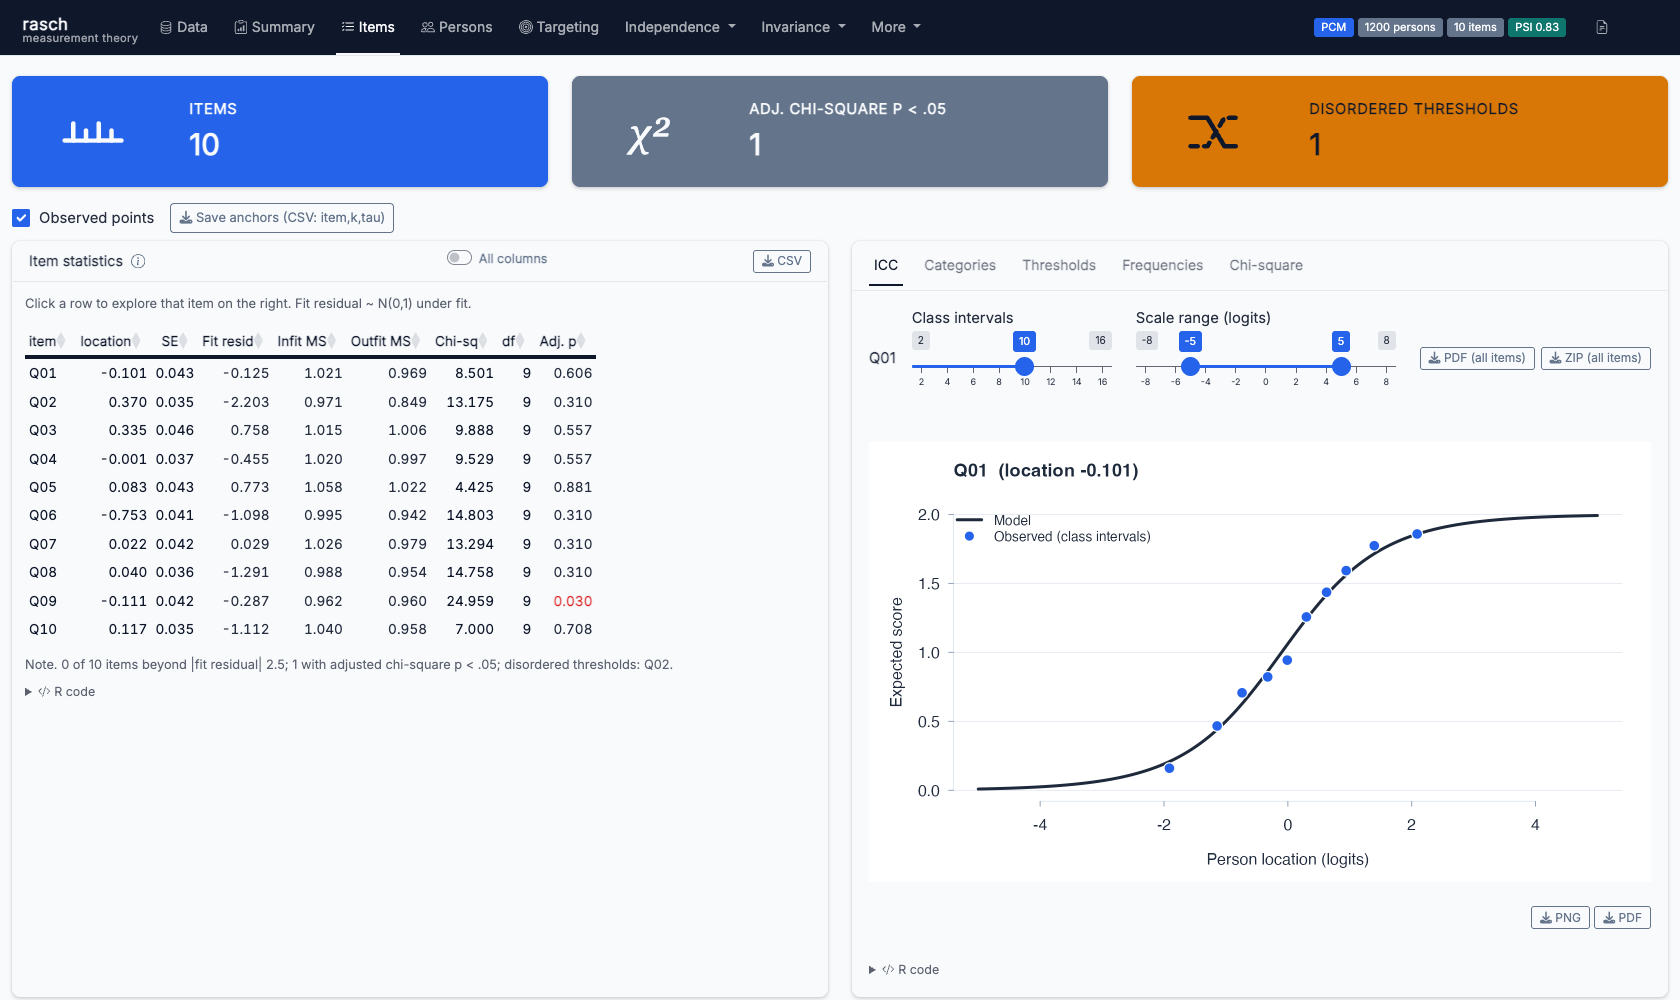
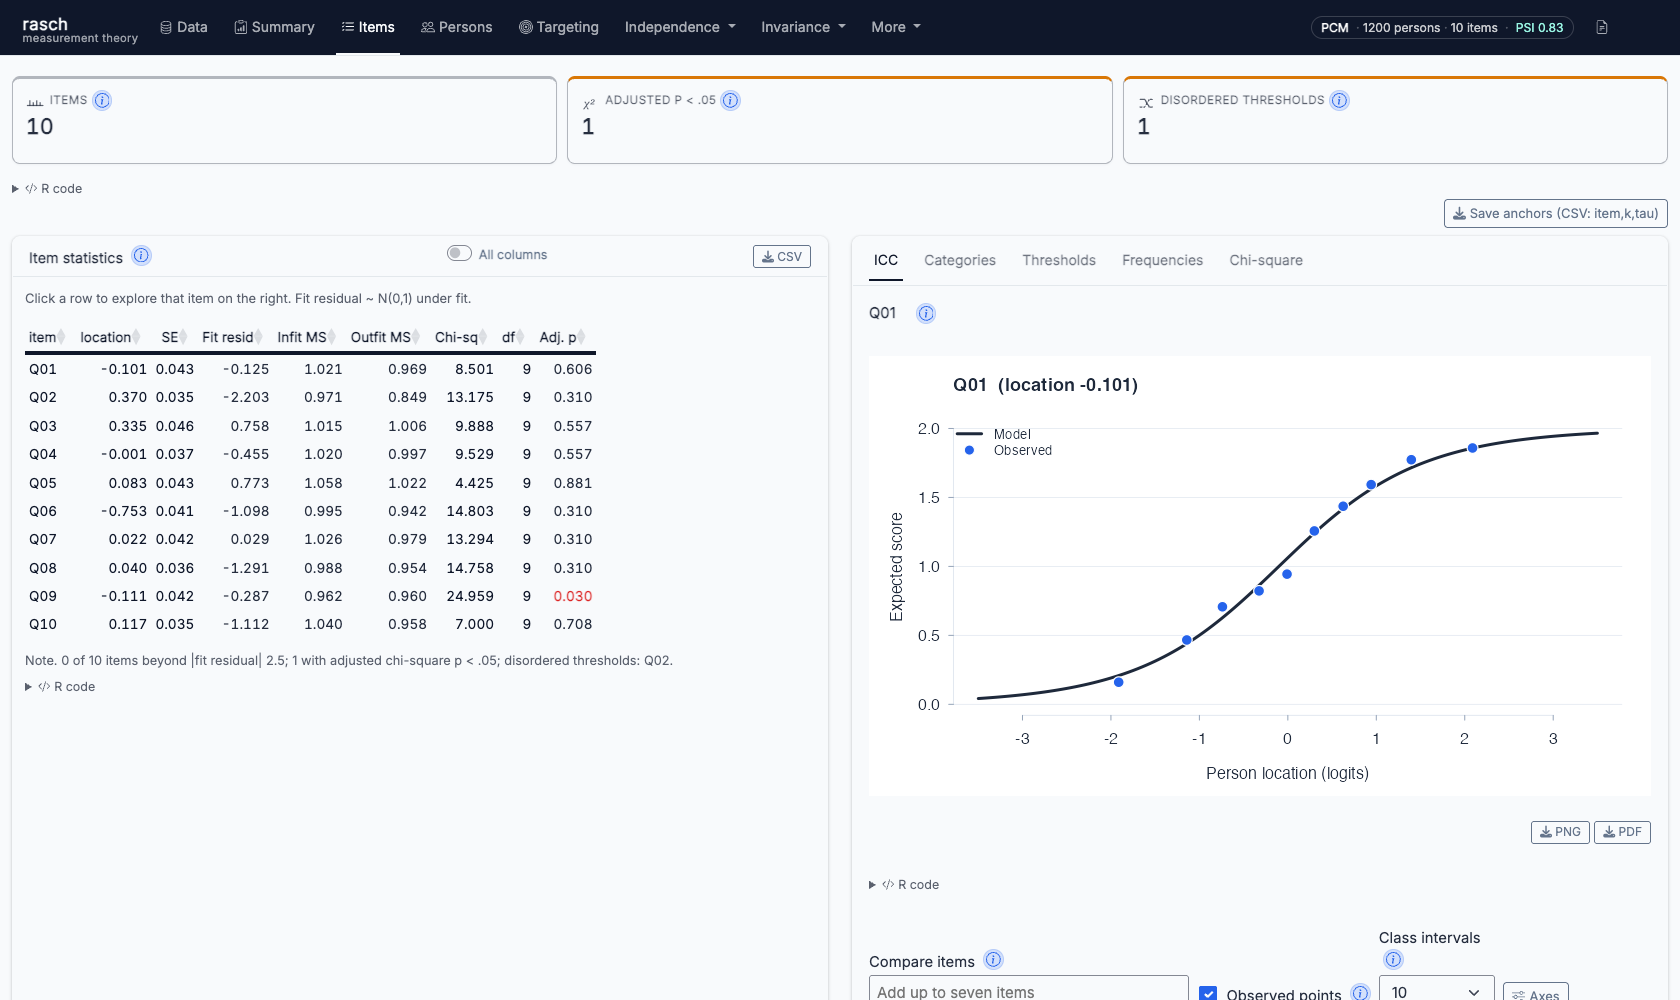
README: current app screenshot, GitHub-rendering math, package-first model description
Regenerate man/figures/app-items.png from the 1.12.0 app (same demo fit
and framing; explainers and current styling now visible). Switch inline
math from \( \) to $ $ so GitHub renders the Greek (pkgdown's mathjax
handles both). Present the partial credit model through what rasch()
estimates rather than as background, folding the estimation citations
into the text, and trim the reference list to the works the text cites.

diff --git a/README.md b/README.md
@@ -11,19 +11,24 @@ models for item responses, ratings, linked frames of reference, and paired
 comparisons, with a common set of functions for examining fit, invariance,
 targeting, dimensionality, and local dependence.
 
-For an item with ordered scores \(x=0,\ldots,m_i\), the partial credit model
-can be written as
+For an item with ordered scores $x=0,\ldots,m_i$, `rasch()` estimates the
+partial credit model
 
 $$
 \log\frac{P(X_{ni}=x)}{P(X_{ni}=x-1)}=\theta_n-\delta_{ix},
 $$
 
-where \(\theta_n\) is the location of person \(n\) and \(\delta_{ix}\) is
-the threshold between categories \(x-1\) and \(x\). Dichotomous items have
-one threshold. The rating scale model imposes a common threshold structure
-across items. The total score is sufficient for \(\theta_n\), allowing item
-parameters to be estimated without assuming a population distribution for
-the person locations.
+where $\theta_n$ is the location of person $n$ and $\delta_{ix}$ is the
+threshold between categories $x-1$ and $x$; dichotomous items have one
+threshold, and the rating scale model holds a common threshold structure
+across the items. The total score is sufficient for $\theta_n$, so
+`rasch()` estimates the item parameters by pairwise conditioning
+(Zwinderman, 1995), without assuming a population distribution for the
+person locations, and returns Warm (1989) weighted likelihood person
+measures on the same scale. The other models carry these comparisons to
+raters and other facets of a measurement design, to frames of reference
+measured in different units, and to comparative judgement of paired
+comparisons.
 
 The package treats fit to the model as an empirical question. Its diagnostics
 examine whether comparisons remain invariant across persons, items, groups,
@@ -39,10 +44,9 @@ occasions, raters, and other parts of the measurement design.
 | `btl()` | Comparative judgement models for dichotomous and polytomous paired comparisons |
 | `btl_efrm()` | Extended frame of reference model for paired comparisons |
 
-The item-response models use pairwise conditional maximum likelihood.
-Person locations are estimated by Warm's weighted likelihood method. Anchored
-estimation is available for equating, and incomplete linked designs can be
-fitted when their observed response structure identifies a common scale.
+Anchored estimation is available for equating, and incomplete linked
+designs can be fitted when their observed response structure identifies a
+common scale.
 
 The suite follows Rasch (1960) and Andrich and Marais (2019); the frame of
 reference models follow Humphry's (2005) thesis, where the model is
@@ -119,15 +123,8 @@ simulation.
 Andrich, D. (1978). Relationships between the Thurstone and Rasch approaches
 to item scaling. *Applied Psychological Measurement*, 2(3), 451--462.
 
-Andrich, D., and Luo, G. (2003). Conditional pairwise estimation in the Rasch
-model for ordered response categories using principal components. *Journal
-of Applied Measurement*, 4(3), 205--221.
-
 Andrich, D., and Marais, I. (2019). *A Course in Rasch Measurement Theory:
 Measuring in the Educational, Social and Health Sciences*. Springer.
-
-Bradley, R. A., and Terry, M. E. (1952). Rank analysis of incomplete block
-designs: I. The method of paired comparisons. *Biometrika*, 39, 324--345.
 
 Humphry, S. M. (2005). *Maintaining a Common Arbitrary Unit in Social
 Measurement*. PhD thesis, Murdoch University.
@@ -135,25 +132,9 @@ Measurement*. PhD thesis, Murdoch University.
 Humphry, S. M., and Andrich, D. (2008). Understanding the unit in the Rasch
 model. *Journal of Applied Measurement*, 9(3), 249--264.
 
-Humphry, S. M. (2010). Modeling the effects of person group factors on
-discrimination. *Educational and Psychological Measurement*, 70(2), 215--231.
-
-Humphry, S. M. (2012). Item set discrimination and the unit in the Rasch
-model. *Journal of Applied Measurement*, 13(2), 165--180.
-
-Linacre, J. M. (1989). *Many-Facet Rasch Measurement*. MESA Press.
-
-Montuoro, P., and Humphry, S. M. (2024). Modeling the effect of reading item
-clarity on item discrimination. *Journal of Applied Measurement*, 24(3/4),
-121--132.
-
 Rasch, G. (1960). *Probabilistic Models for Some Intelligence and Attainment
 Tests*. Danish Institute for Educational Research. Expanded edition,
 University of Chicago Press, 1980.
-
-Rasch, G. (1977). On specific objectivity: An attempt at formalizing the
-request for generality and validity of scientific statements. *Danish
-Yearbook of Philosophy*, 14, 58--94.
 
 Tutz, G. (1986). Bradley-Terry-Luce models with an ordered response. *Journal
 of Mathematical Psychology*, 30(3), 306--316.
